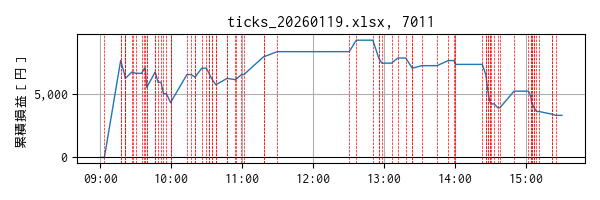
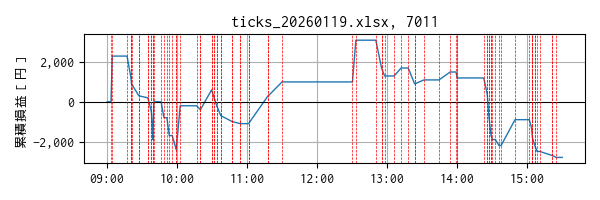
update

diff --git a/output/2026/01/19/7011_transaction.html b/output/2026/01/19/7011_transaction.html
@@ -25,17 +25,17 @@
 </tr>
 <tr>
 <td style="text-align: right;">2</td>
-<td style="text-align: center;">2026-01-19 09:17:03.031919003</td>
+<td style="text-align: center;">2026-01-19 09:04:22.434683084</td>
 <td style="text-align: center;">7011</td>
 <td style="text-align: center;">売埋</td>
-<td style="text-align: right;">4722</td>
+<td style="text-align: right;">4669</td>
 <td style="text-align: right;">100</td>
-<td style="text-align: right;">7600.0</td>
+<td style="text-align: right;">2300.0</td>
 <td style="text-align: left;"></td>
 </tr>
 <tr>
 <td style="text-align: right;">3</td>
-<td style="text-align: center;">2026-01-19 09:17:04.047686100</td>
+<td style="text-align: center;">2026-01-19 09:17:03.031919003</td>
 <td style="text-align: center;">7011</td>
 <td style="text-align: center;">売建</td>
 <td style="text-align: right;">4722</td>
@@ -85,37 +85,37 @@
 </tr>
 <tr>
 <td style="text-align: right;">8</td>
-<td style="text-align: center;">2026-01-19 09:26:36.245903015</td>
+<td style="text-align: center;">2026-01-19 09:27:09.437643051</td>
 <td style="text-align: center;">7011</td>
 <td style="text-align: center;">売埋</td>
-<td style="text-align: right;">4738</td>
+<td style="text-align: right;">4727</td>
 <td style="text-align: right;">100</td>
-<td style="text-align: right;">500.0</td>
+<td style="text-align: right;">-600.0</td>
 <td style="text-align: left;"></td>
 </tr>
 <tr>
 <td style="text-align: right;">9</td>
-<td style="text-align: center;">2026-01-19 09:27:09.437643051</td>
+<td style="text-align: center;">2026-01-19 09:27:10.453624010</td>
 <td style="text-align: center;">7011</td>
 <td style="text-align: center;">売建</td>
-<td style="text-align: right;">4727</td>
+<td style="text-align: right;">4729</td>
 <td style="text-align: right;">100</td>
 <td style="text-align: right;"></td>
 <td style="text-align: left;"></td>
 </tr>
 <tr>
 <td style="text-align: right;">10</td>
-<td style="text-align: center;">2026-01-19 09:29:53.147859097</td>
+<td style="text-align: center;">2026-01-19 09:34:51.333431959</td>
 <td style="text-align: center;">7011</td>
 <td style="text-align: center;">買埋</td>
-<td style="text-align: right;">4728</td>
+<td style="text-align: right;">4730</td>
 <td style="text-align: right;">100</td>
 <td style="text-align: right;">-100.0</td>
 <td style="text-align: left;"></td>
 </tr>
 <tr>
 <td style="text-align: right;">11</td>
-<td style="text-align: center;">2026-01-19 09:34:51.333431959</td>
+<td style="text-align: center;">2026-01-19 09:34:52.339875937</td>
 <td style="text-align: center;">7011</td>
 <td style="text-align: center;">買建</td>
 <td style="text-align: right;">4730</td>
@@ -125,20 +125,20 @@
 </tr>
 <tr>
 <td style="text-align: right;">12</td>
-<td style="text-align: center;">2026-01-19 09:37:10.206599951</td>
+<td style="text-align: center;">2026-01-19 09:37:52.522432089</td>
 <td style="text-align: center;">7011</td>
 <td style="text-align: center;">売埋</td>
-<td style="text-align: right;">4734</td>
+<td style="text-align: right;">4723</td>
 <td style="text-align: right;">100</td>
-<td style="text-align: right;">400.0</td>
+<td style="text-align: right;">-700.0</td>
 <td style="text-align: left;"></td>
 </tr>
 <tr>
 <td style="text-align: right;">13</td>
-<td style="text-align: center;">2026-01-19 09:37:52.522432089</td>
+<td style="text-align: center;">2026-01-19 09:37:53.538919926</td>
 <td style="text-align: center;">7011</td>
 <td style="text-align: center;">売建</td>
-<td style="text-align: right;">4723</td>
+<td style="text-align: right;">4724</td>
 <td style="text-align: right;">100</td>
 <td style="text-align: right;"></td>
 <td style="text-align: left;"></td>
@@ -150,7 +150,7 @@
 <td style="text-align: center;">買埋</td>
 <td style="text-align: right;">4738</td>
 <td style="text-align: right;">100</td>
-<td style="text-align: right;">-1500.0</td>
+<td style="text-align: right;">-1400.0</td>
 <td style="text-align: left;"></td>
 </tr>
 <tr>
@@ -165,17 +165,17 @@
 </tr>
 <tr>
 <td style="text-align: right;">16</td>
-<td style="text-align: center;">2026-01-19 09:46:13.911531925</td>
+<td style="text-align: center;">2026-01-19 09:40:02.136487007</td>
 <td style="text-align: center;">7011</td>
 <td style="text-align: center;">売埋</td>
-<td style="text-align: right;">4750</td>
+<td style="text-align: right;">4757</td>
 <td style="text-align: right;">100</td>
-<td style="text-align: right;">1200.0</td>
+<td style="text-align: right;">1900.0</td>
 <td style="text-align: left;"></td>
 </tr>
 <tr>
 <td style="text-align: right;">17</td>
-<td style="text-align: center;">2026-01-19 09:46:14.915585995</td>
+<td style="text-align: center;">2026-01-19 09:46:13.911531925</td>
 <td style="text-align: center;">7011</td>
 <td style="text-align: center;">売建</td>
 <td style="text-align: right;">4750</td>
@@ -245,7 +245,7 @@
 </tr>
 <tr>
 <td style="text-align: right;">24</td>
-<td style="text-align: center;">2026-01-19 10:13:02.622255087</td>
+<td style="text-align: center;">2026-01-19 10:02:34.760154963</td>
 <td style="text-align: center;">7011</td>
 <td style="text-align: center;">売埋</td>
 <td style="text-align: right;">4783</td>
@@ -285,17 +285,17 @@
 </tr>
 <tr>
 <td style="text-align: right;">28</td>
-<td style="text-align: center;">2026-01-19 10:25:34.008510113</td>
+<td style="text-align: center;">2026-01-19 10:29:28.907284975</td>
 <td style="text-align: center;">7011</td>
 <td style="text-align: center;">買埋</td>
-<td style="text-align: right;">4777</td>
+<td style="text-align: right;">4774</td>
 <td style="text-align: right;">100</td>
-<td style="text-align: right;">700.0</td>
+<td style="text-align: right;">1000.0</td>
 <td style="text-align: left;"></td>
 </tr>
 <tr>
 <td style="text-align: right;">29</td>
-<td style="text-align: center;">2026-01-19 10:29:28.907284975</td>
+<td style="text-align: center;">2026-01-19 10:29:29.910409927</td>
 <td style="text-align: center;">7011</td>
 <td style="text-align: center;">買建</td>
 <td style="text-align: right;">4774</td>
@@ -365,17 +365,17 @@
 </tr>
 <tr>
 <td style="text-align: right;">36</td>
-<td style="text-align: center;">2026-01-19 10:47:00.458893061</td>
+<td style="text-align: center;">2026-01-19 10:47:17.545569897</td>
 <td style="text-align: center;">7011</td>
 <td style="text-align: center;">買埋</td>
-<td style="text-align: right;">4764</td>
+<td style="text-align: right;">4772</td>
 <td style="text-align: right;">100</td>
-<td style="text-align: right;">500.0</td>
+<td style="text-align: right;">-300.0</td>
 <td style="text-align: left;"></td>
 </tr>
 <tr>
 <td style="text-align: right;">37</td>
-<td style="text-align: center;">2026-01-19 10:47:17.545569897</td>
+<td style="text-align: center;">2026-01-19 10:47:18.548232079</td>
 <td style="text-align: center;">7011</td>
 <td style="text-align: center;">買建</td>
 <td style="text-align: right;">4772</td>
@@ -405,17 +405,17 @@
 </tr>
 <tr>
 <td style="text-align: right;">40</td>
-<td style="text-align: center;">2026-01-19 10:59:10.792037010</td>
+<td style="text-align: center;">2026-01-19 11:01:10.434370041</td>
 <td style="text-align: center;">7011</td>
 <td style="text-align: center;">買埋</td>
-<td style="text-align: right;">4768</td>
+<td style="text-align: right;">4772</td>
 <td style="text-align: right;">100</td>
-<td style="text-align: right;">400.0</td>
+<td style="text-align: right;">0.0</td>
 <td style="text-align: left;"></td>
 </tr>
 <tr>
 <td style="text-align: right;">41</td>
-<td style="text-align: center;">2026-01-19 11:01:10.434370041</td>
+<td style="text-align: center;">2026-01-19 11:01:11.437041044</td>
 <td style="text-align: center;">7011</td>
 <td style="text-align: center;">買建</td>
 <td style="text-align: right;">4772</td>
@@ -445,12 +445,12 @@
 </tr>
 <tr>
 <td style="text-align: right;">44</td>
-<td style="text-align: center;">2026-01-19 11:29:18.831737041</td>
+<td style="text-align: center;">2026-01-19 11:29:50.087162018</td>
 <td style="text-align: center;">7011</td>
 <td style="text-align: center;">売埋</td>
-<td style="text-align: right;">4790</td>
+<td style="text-align: right;">4793</td>
 <td style="text-align: right;">100</td>
-<td style="text-align: right;">400.0</td>
+<td style="text-align: right;">700.0</td>
 <td style="text-align: left;"></td>
 </tr>
 <tr>
@@ -465,12 +465,12 @@
 </tr>
 <tr>
 <td style="text-align: right;">46</td>
-<td style="text-align: center;">2026-01-19 12:36:13.465291977</td>
+<td style="text-align: center;">2026-01-19 12:33:08.596887112</td>
 <td style="text-align: center;">7011</td>
 <td style="text-align: center;">売埋</td>
-<td style="text-align: right;">4818</td>
+<td style="text-align: right;">4830</td>
 <td style="text-align: right;">100</td>
-<td style="text-align: right;">900.0</td>
+<td style="text-align: right;">2100.0</td>
 <td style="text-align: left;"></td>
 </tr>
 <tr>
@@ -525,7 +525,7 @@
 </tr>
 <tr>
 <td style="text-align: right;">52</td>
-<td style="text-align: center;">2026-01-19 13:11:24.509985924</td>
+<td style="text-align: center;">2026-01-19 13:11:52.605727911</td>
 <td style="text-align: center;">7011</td>
 <td style="text-align: center;">買埋</td>
 <td style="text-align: right;">4848</td>
@@ -859,7 +859,7 @@
 <td style="text-align: center;"></td>
 <td style="text-align: center;"></td>
 <td style="text-align: right;" colspan="2">合計損益</td>
-<td style="text-align: right;">3300.0</td>
+<td style="text-align: right;">-2800.0</td>
 <td style="text-align: left;"></td>
 </tr>
 </tbody>

diff --git a/modules/feature_provider.py b/modules/feature_provider.py
@@ -395,7 +395,7 @@ class FeatureProvider:
         ma1 = self.obj_ma1.update(price)
         ma2 = self.obj_ma2.update(price)
         div_ma = ma1 - ma2
-        self.ma_disparity = (ma1 - ma2) / ma2 if ma2 != 0 else 0
+        self.ma_disparity = div_ma / ma2 if ma2 != 0 else 0
 
         # --- ボラティリティ関連 ---
         self.rr_pre = self.rr
